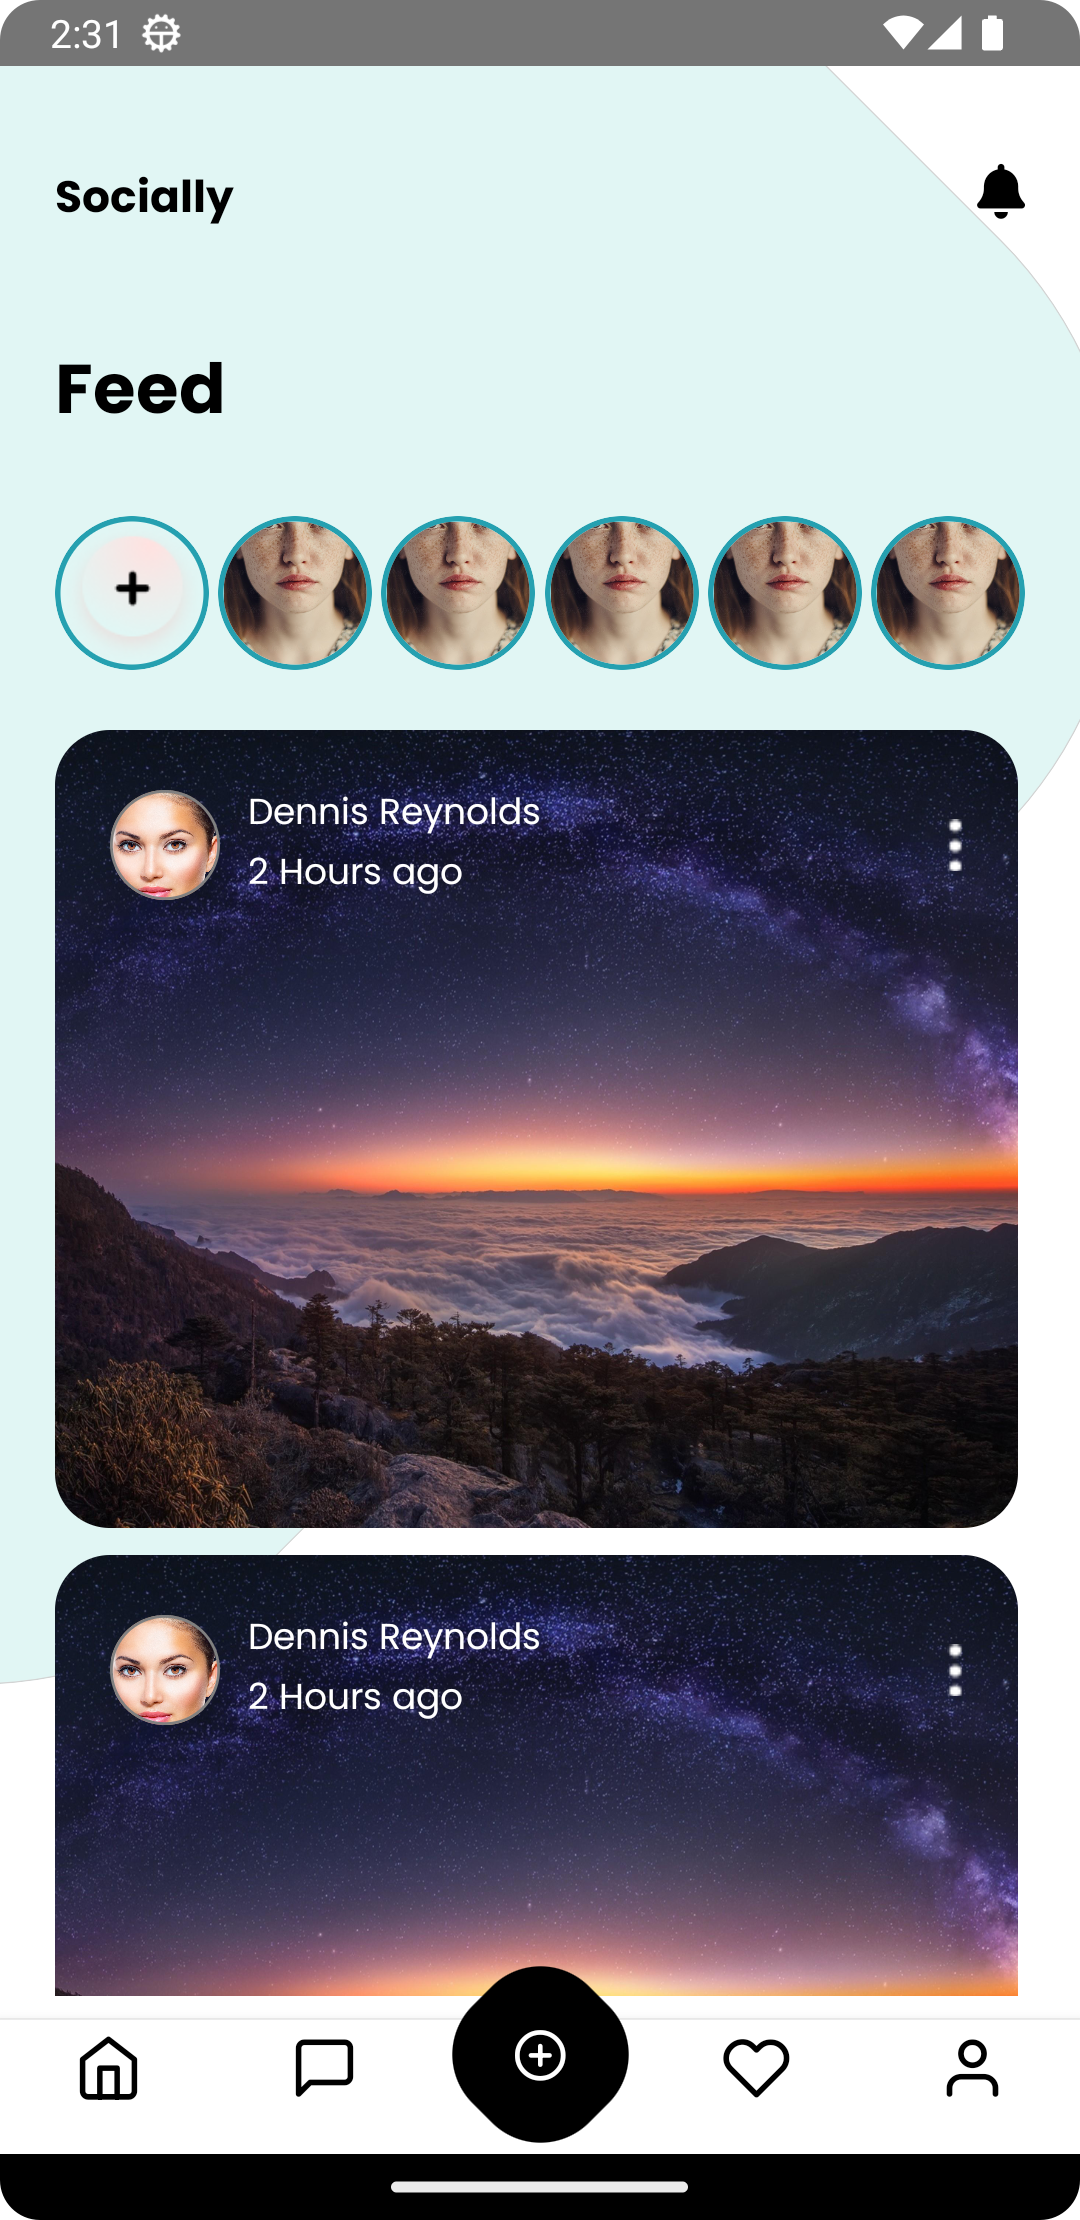
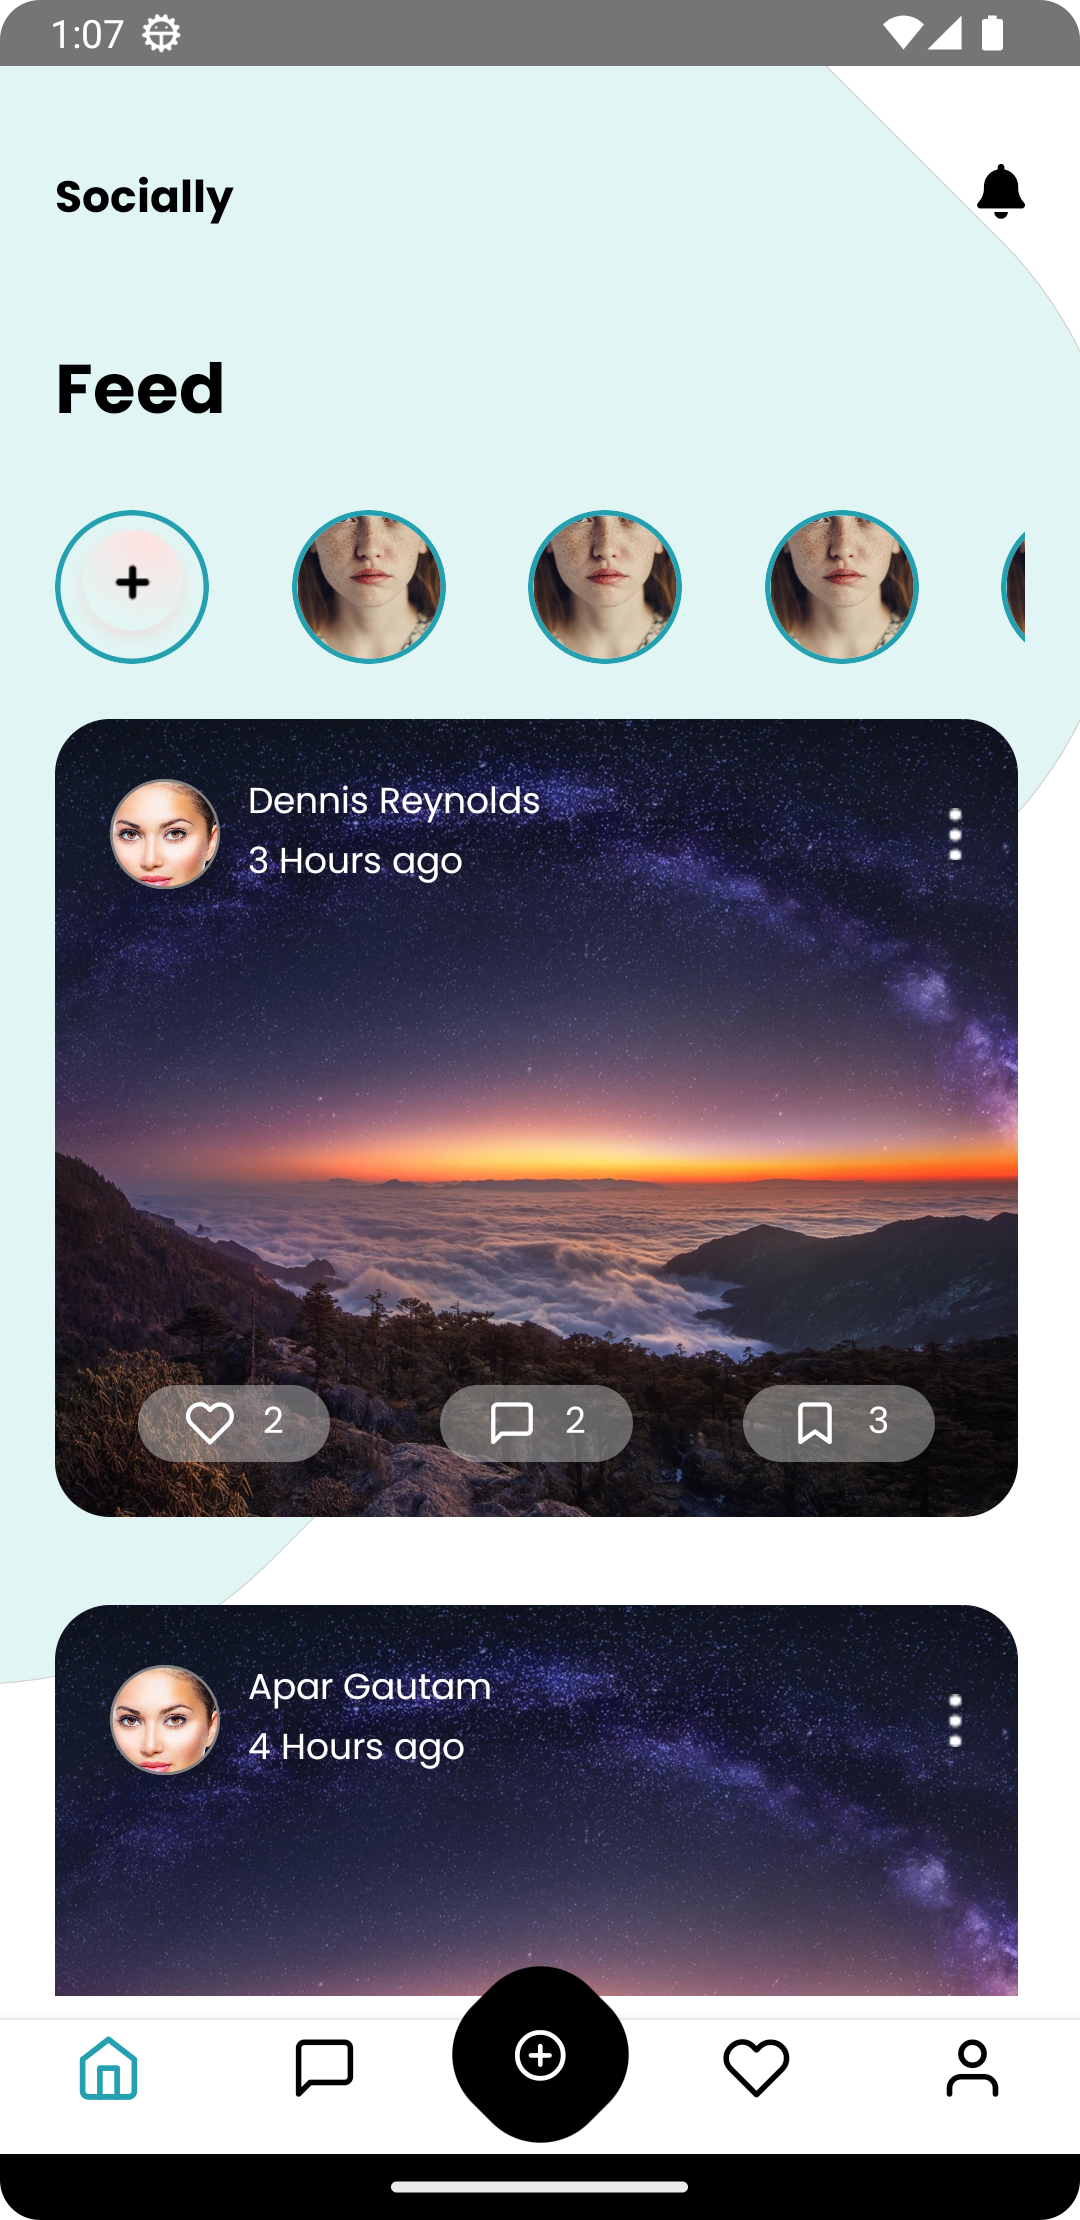
feat: tab styling and screenshots

diff --git a/App.tsx b/App.tsx
@@ -13,7 +13,7 @@ import {StyleSheet, View} from 'react-native';
 import BlackSquareRoundedEdge from './src/components/common/BlackSquareRoundedEdge';
 import {Provider} from 'react-redux';
 import {store} from './src/store/store';
-import SavedList from './src/screens/SavedList';
+import Bookmarks from './src/screens/Bookmarks';
 
 const Tab = createBottomTabNavigator();
 const Stack = createNativeStackNavigator();
@@ -56,14 +56,15 @@ function TabScreen() {
       screenOptions={{
         headerShown: false,
         tabBarActiveTintColor: COLORS.blue,
+        tabBarInactiveTintColor: COLORS.black,
       }}>
       <Tab.Screen
         name="Homepage"
         component={Homepage}
         options={{
           tabBarLabel: '',
-          tabBarIcon: ({size}) => (
-            <Icon name={'home'} color={COLORS.black} size={size} />
+          tabBarIcon: ({size, color}) => (
+            <Icon name={'home'} color={color} size={size} />
           ),
         }}
       />
@@ -78,8 +79,8 @@ function TabScreen() {
         })}
         options={{
           tabBarLabel: '',
-          tabBarIcon: ({size}) => (
-            <Icon name={'message-square'} color={COLORS.black} size={size} />
+          tabBarIcon: ({size, color}) => (
+            <Icon name={'message-square'} color={color} size={size} />
           ),
         }}
       />
@@ -111,12 +112,12 @@ function TabScreen() {
         }}
       />
       <Tab.Screen
-        name="Notifications"
-        component={SavedList}
+        name="Bookmarks"
+        component={Bookmarks}
         options={{
           tabBarLabel: '',
-          tabBarIcon: ({size}) => (
-            <Icon name={'heart'} color={COLORS.black} size={size} />
+          tabBarIcon: ({size, color}) => (
+            <Icon name={'heart'} color={color} size={size} />
           ),
         }}
       />
@@ -125,8 +126,8 @@ function TabScreen() {
         component={Profile}
         options={{
           tabBarLabel: '',
-          tabBarIcon: ({size}) => (
-            <Icon name={'user'} color={COLORS.black} size={size} />
+          tabBarIcon: ({size, color}) => (
+            <Icon name={'user'} color={color} size={size} />
           ),
         }}
       />

diff --git a/src/screens/Profile.tsx b/src/screens/Profile.tsx
@@ -1,4 +1,12 @@
-import {FlatList, Image, StyleSheet, Text, View} from 'react-native';
+import {useNavigation} from '@react-navigation/native';
+import {
+  FlatList,
+  Image,
+  StyleSheet,
+  Text,
+  TouchableOpacity,
+  View,
+} from 'react-native';
 import Feather from 'react-native-vector-icons/Feather';
 import {useSelector} from 'react-redux';
 import COLORS from '../constants/colors';
@@ -6,6 +14,8 @@ import {face1, postImage} from '../constants/images';
 import TYPOGRAPHY from '../constants/typography';
 export default function Profile() {
   const user = useSelector(state => state?.user);
+  const navigation = useNavigation();
+  const handleClickBookmark = () => navigation.navigate('Bookmarks');
   return (
     <View style={styles.container}>
       <View style={styles.blueContainer} />
@@ -56,8 +66,12 @@ export default function Profile() {
               </View>
             </View>
             <View style={styles.postIcons}>
-              <Feather name={'image'} size={25} color={COLORS.black} />
-              <Feather name={'bookmark'} size={25} color={COLORS.black} />
+              <TouchableOpacity>
+                <Feather name={'image'} size={25} color={COLORS.black} />
+              </TouchableOpacity>
+              <TouchableOpacity onPress={handleClickBookmark}>
+                <Feather name={'bookmark'} size={25} color={COLORS.black} />
+              </TouchableOpacity>
             </View>
           </View>
         }

diff --git a/src/screens/Bookmarks.tsx b/src/screens/Bookmarks.tsx
@@ -1,12 +1,11 @@
 import {FlatList, StyleSheet, Text, View} from 'react-native';
 import Post from '../components/common/Post';
-import FontAwesomeIcon from 'react-native-vector-icons/FontAwesome6';
 import TYPOGRAPHY from '../constants/typography';
 import FONTS from '../constants/fonts';
 import COLORS from '../constants/colors';
 import {useSelector} from 'react-redux';
 
-export default function SavedList() {
+export default function Bookmarks() {
   const postIds = useSelector(state => state?.user?.savedPosts);
   const allPosts = useSelector(state => state?.post);
   const posts = allPosts.filter(post => postIds.includes(post.id));

diff --git a/README.md b/README.md
@@ -4,11 +4,13 @@ A social media app clone
 
 # Screenshots
 
+<img src="assets/img/screenshots/swiper1.png" height="600">
+<img src="assets/img/screenshots/swiper2.png" height="600">
 <img src="assets/img/screenshots/home.png" height="600">
-<img src="assets/img/screenshots/messages.png" height="600">
-<img src="assets/img/screenshots/messaging.png" height="600">
 <img src="assets/img/screenshots/profile.png" height="600">
-<img src="assets/img/screenshots/splash.png" height="600">
+<img src="assets/img/screenshots/savedPosts.png" height="600">
+<img src="assets/img/screenshots/messages.png" height="600">
+<img src="assets/img/screenshots/conversation.png" height="600">
 
 # Getting Started
 
